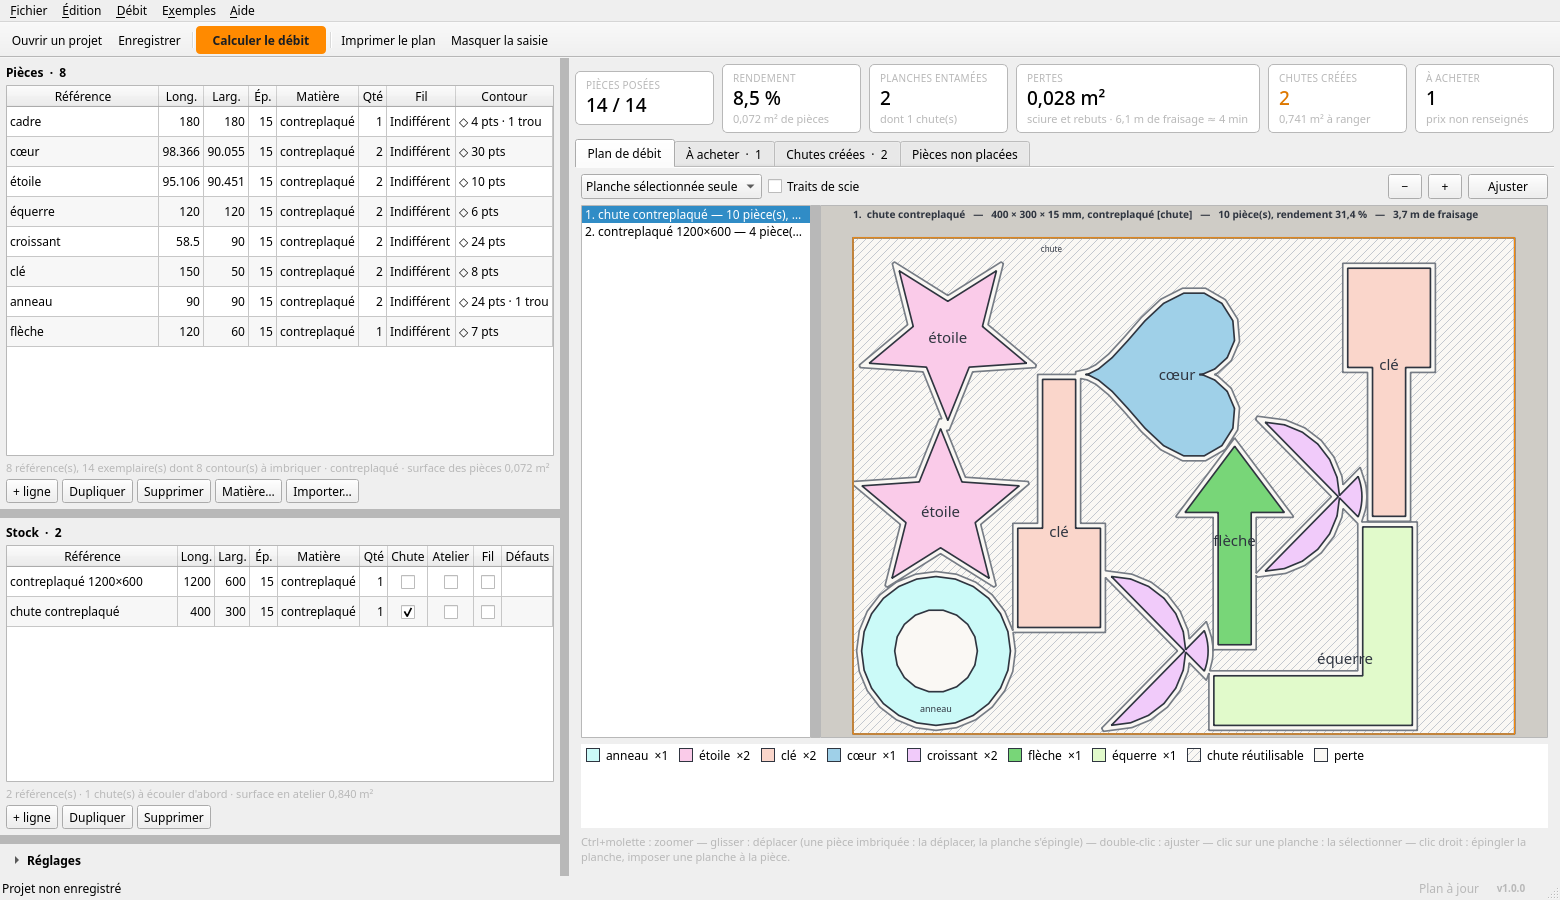
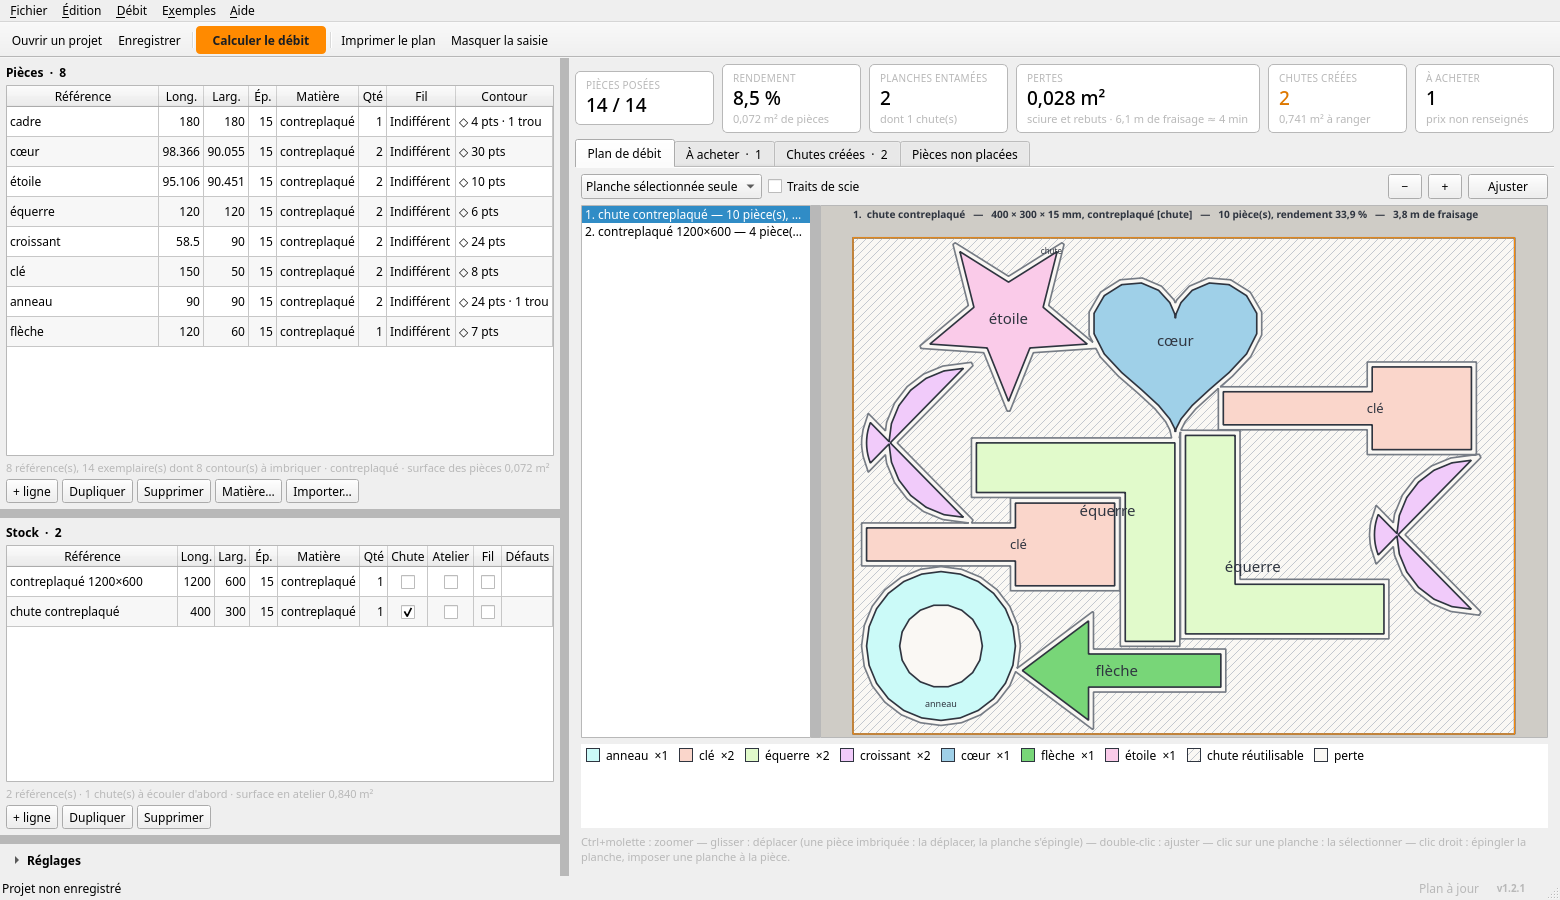
Chutier : captures et légende à jour
L'exemple des formes passe à une marge au bord de 8 mm — au moins le
diamètre d'une fraise de 6, pour que l'export G-code n'ait rien à
signaler. Le plan se décale de trois millimètres et retrouve ses deux
orientations, qui se perdaient dans l'interface : la légende suit.

Claude-Session: https://claude.ai/code/session_016GYtChadZeJxywBwyu5Mk7

Changed region(s): [[0.4308, 0.28, 0.9538, 0.8711]]

diff --git a/site/contenu/chutier.html b/site/contenu/chutier.html
@@ -349,16 +349,17 @@
 
     <figure class="capture">
       <img src="{{RACINE}}logiciels/captures/chutier-formes.webp"
-           alt="Une chute de contreplaqué de 400 × 300 vue seule : deux étoiles, un cœur, deux clés, une flèche, une équerre, un anneau et deux croissants imbriqués, chacun serré contre ses voisins"
+           alt="Une chute de contreplaqué de 400 × 300 vue seule : une étoile, un cœur, deux clés, deux équerres emboîtées, deux croissants, un anneau et une flèche imbriqués, chacun serré contre ses voisins"
            data-agrandir>
       <figcaption>
         L'exemple des formes biscornues, sur la chute de 400 × 300 que le
-        programme entame avant le panneau neuf : deux étoiles emboîtées dans
-        les creux d'un cœur, des croissants glissés entre une flèche et une
-        équerre. Dix pièces sur une chute, <b>3,7 m de fraisage</b>, et les
-        quatre autres sur le panneau — dont un cadre évidé qui reçoit un
-        <b>cœur dans son trou</b>. Le tout laisse 0,028 m² de perte : le reste
-        du panneau part au stock en chute biscornue.
+        programme entame avant le panneau neuf : deux équerres emboîtées
+        l'une dans l'autre, des croissants glissés dans les creux d'une
+        étoile et d'un cœur, une flèche calée contre un anneau. Dix pièces
+        sur une chute, <b>3,8 m de fraisage</b>, et les quatre autres sur le
+        panneau — dont un cadre évidé qui reçoit un <b>cœur dans son
+        trou</b>. Le tout laisse 0,028 m² de perte : le reste du panneau
+        part au stock en chute biscornue.
       </figcaption>
     </figure>
 
